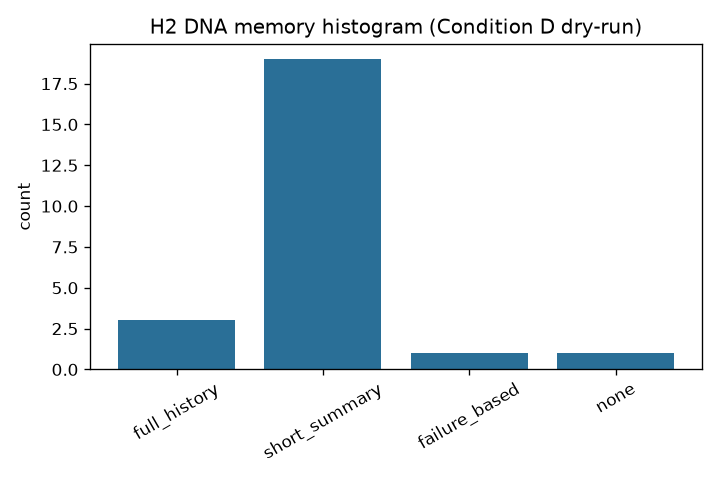
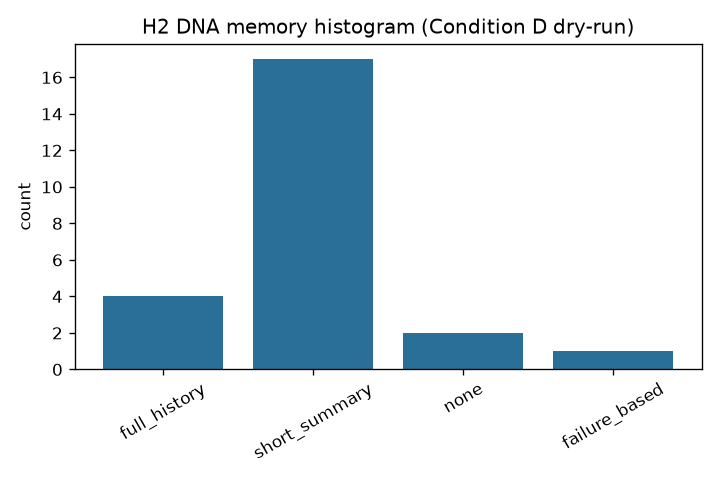
Document Tick 20 directed-explore offline B vs D pilot.
Refresh ICML progress/ready/gate3/paper artifacts after directed
ε-explore unlocked seed 22: offline gens30 4/5, final 5/5, H5 5/5,
mean gap ~6.15pp (runs 1780–1784 / 1790–1794). STATUS remains
IN_PROGRESS pending live GPQA.

diff --git a/docs/paper_artifacts.md b/docs/paper_artifacts.md
@@ -1,10 +1,10 @@
 # ICML paper artifacts
 
-**Status:** offline mechanism pack + synthetic B vs D pilot refreshed (2026-08-05 Tick 19, H5 forward-horizon Δfitness). No publishable **live** GPQA figures/tables yet.
+**Status:** offline mechanism pack + synthetic B vs D pilot refreshed (2026-08-05 Tick 20, directed ε-explore). No publishable **live** GPQA figures/tables yet.
 
 ## Abstract (draft — do not claim READY)
 
-We study whether a Contradiction-Aware Belief System (CABS) improves sample efficiency of population-based Darwinian self-improvement. Fitness-only evolution (Condition B) is compared to epistemic-full steering (Condition D: beliefs → contradictions → research questions → fitness-weighted biased mutation / bias-aware crossover / scoped feedback). Offline dry-run pilots with additive latent DNA fitness show a concrete case study (contradiction → preferred DNA → population skew → fitness lift). Delaying all Condition D DNA steering until breeding from gen≥2 prevents early preferred-allele collapse. Compressing the latent fitness ceiling to 0.34 (Tick 16) removes gen-1 threshold saturation. Tick 17 adds ε-greedy exploration outside frozen contradiction pairs plus latest-generation DNA harvest into the bias pool, unlocking offline gens-to-30% wins on **3/5** seeds (final **5/5**, mean gap ~**5.35pp**). Tick 18–19 score H5 only after steering is active (gen≥2) against population-mean forward Δfitness over a 2-gen horizon (ε-greedy discover→adopt lag) → offline H5 ρ>0.3 on **5/5** seeds. **Live multi-seed GPQA subset results are pending.** Mechanism claim requires measurable DNA trait skew under contradiction bias (H2) and predictive validity of epistemic value for next-step fitness gain (H5) on live runs.
+We study whether a Contradiction-Aware Belief System (CABS) improves sample efficiency of population-based Darwinian self-improvement. Fitness-only evolution (Condition B) is compared to epistemic-full steering (Condition D: beliefs → contradictions → research questions → fitness-weighted biased mutation / bias-aware crossover / scoped feedback). Offline dry-run pilots with additive latent DNA fitness show a concrete case study (contradiction → preferred DNA → population skew → fitness lift). Delaying all Condition D DNA steering until breeding from gen≥2 prevents early preferred-allele collapse. Compressing the latent fitness ceiling to 0.34 (Tick 16) removes gen-1 threshold saturation. Tick 17 adds ε-greedy exploration plus latest-generation DNA harvest into the bias pool; Tick 20 makes explore **directed** (sample only alleles outside the disputed pool) so suboptimal frozen pairs (e.g. minimal vs aggressive) discover better outsiders (`selective`) — offline gens-to-30% wins on **4/5** seeds (final **5/5**, mean gap ~**6.15pp**). Tick 18–19 score H5 only after steering is active (gen≥2) against population-mean forward Δfitness over a 2-gen horizon → offline H5 ρ>0.3 on **5/5** seeds. **Live multi-seed GPQA subset results are pending.** Mechanism claim requires measurable DNA trait skew under contradiction bias (H2) and predictive validity of epistemic value for next-step fitness gain (H5) on live runs.
 
 
 ## Reproducible run IDs
@@ -17,8 +17,9 @@ We study whether a Contradiction-Aware Belief System (CABS) improves sample effi
 | B / D (Tick 8–16 mid pilots) | 11–55 | 1410–1664 | Superseded — see prior ICML_PROGRESS ticks |
 | B / D (Tick 17 ε-greedy pilot) | 11–55 | 1670–1674 / 1680–1684 | First offline gens30 **3/5**; H5 2/5 under old protocol |
 | B / D (Tick 18 H5 protocol) | 11–55 | 1730–1734 / 1740–1744 | H5 **4/5** under gen≥2 + mean Δ; seed 11 ρ=0.0 |
-| B darwinian-only (offline pilot Tick 19) | 11/22/33/44/55 | 1750–1754 | Tick 17 mutation path + Tick 19 H5 horizon (`max_gen=6`); gitignored `runs/` |
-| D epistemic_full (offline pilot Tick 19) | 11/22/33/44/55 | 1760–1764 | Final **5/5**; gens30 **3/5**; H5 **5/5**; case study on `1763` |
+| B / D (Tick 19 H5 horizon) | 11–55 | 1750–1754 / 1760–1764 | H5 **5/5**; gens30 **3/5**; seed 22 still under 30% |
+| B darwinian-only (offline pilot Tick 20) | 11/22/33/44/55 | 1780–1784 | Directed ε-explore (`max_gen=6`); gitignored `runs/` |
+| D epistemic_full (offline pilot Tick 20) | 11/22/33/44/55 | 1790–1794 | Final **5/5**; gens30 **4/5**; H5 **5/5**; case study on `1793` |
 | B darwinian-only | — | — | none yet (live) |
 | D epistemic_full | — | — | none yet (live) |
 
@@ -26,17 +27,17 @@ Reserve unused integer IDs; never overwrite. Next live IDs suggested: B `1201+`,
 
 ## Table 1 — Primary (B vs D)
 
-### Offline synthetic pilot (Tick 19 — not live PRIMARY)
+### Offline synthetic pilot (Tick 20 — not live PRIMARY)
 
 | Seed | B final | D final | B gens@25% | D gens@25% | B gens@30% | D gens@30% | Winner (final>1pp / gens30) |
 |------|---------|---------|------------|------------|------------|------------|------------------------------|
-| 11 | 0.2652 | 0.3010 | 1 | 1 | — | 4 | D / D |
-| 22 | 0.2258 | 0.2733 | 1 | 1 | — | — | D / tie |
+| 11 | 0.2652 | 0.3035 | 1 | 1 | — | 4 | D / D |
+| 22 | 0.2258 | 0.3060 | 1 | 1 | — | 5 | D / D |
 | 33 | 0.2950 | 0.3235 | 1 | 1 | — | 3 | D / D |
 | 44 | 0.2220 | 0.3109 | 1 | 1 | 2 | 2 | D / tie |
-| 55 | 0.2550 | 0.3216 | 1 | 1 | — | 4 | D / D |
+| 55 | 0.2550 | 0.3266 | 1 | 1 | — | 4 | D / D |
 
-Mean final: B ≈ 0.253, D ≈ 0.306 (gap ~**5.35pp**). D final wins **5/5**; gens30 wins **3/5** (offline PRIMARY-shaped). Source: `docs/offline_bvd_summary.json`.
+Mean final: B ≈ 0.253, D ≈ 0.314 (gap ~**6.15pp**). D final wins **5/5**; gens30 wins **4/5** (offline PRIMARY-shaped). Source: `docs/offline_bvd_summary.json`.
 
 ### Live GPQA
 
@@ -50,18 +51,19 @@ Mean final: B ≈ 0.253, D ≈ 0.306 (gap ~**5.35pp**). D final wins **5/5**; ge
 |--------|-------|-------|
 | H2 trait skew (live API) | — | — |
 | H2 dry-run scoped bias (G1) | memory∈{failure_based,none}; tool_strategy∈{aggressive,minimal}; ≠ full enums | yes (dry-run) |
-| H2 offline pilot D (Tick 19) | ε-greedy + live harvest; case-study gen2 preferred share **0.25** (`run_1763`) | informative (dry-run) |
-| H2 unit skew test | pass (+ preferred anchoring + bias-aware / delayed XO + tempered early mutate + delay-all + ε-greedy) | yes (unit) |
+| H2 offline pilot D (Tick 20) | directed ε-explore + live harvest; case-study gen2 preferred share **0.25** (`run_1793`) | informative (dry-run) |
+| H2 unit skew test | pass (+ preferred anchoring + bias-aware / delayed XO + tempered early mutate + delay-all + ε-greedy + directed explore) | yes (unit) |
 | Fitness-weighted bias order | higher-fitness side first; exponential rank weights | yes (unit) |
 | Singleton bias skip | `load_mutation_bias` requires ≥2 distinct candidates | yes (unit, Tick 10) |
 | Bias-aware crossover | soft p=0.85 preferred inherit; delayed until breeding from gen≥2 | yes (unit, Tick 11–12) |
 | Tempered early mutation | soft rank-weighted mutate option retained (`anchor_preferred`) | yes (unit, Tick 13) |
 | Delay-all mutation bias | fair mutate gen1→gen2; full bias+anchor from gen≥2 (`apply_mutation_bias`) | yes (unit, Tick 14) |
 | Compressed latent fitness | output scale `[0.02, 0.34]` (Tick 16) | yes (unit) |
-| ε-greedy + live bias harvest | explore outside disputed pool; adopt better latest-gen alleles (Tick 17) | yes (unit) |
+| ε-greedy + live bias harvest | explore + adopt better latest-gen alleles (Tick 17) | yes (unit) |
+| Directed ε-explore | explore samples only outsiders of disputed pool (Tick 20) | yes (unit + offline) |
 | H5 protocol | `min_generation=2`, `fitness_key=mean`, `delta_horizon=2` (Tick 18–19) | yes (unit + offline) |
-| Case study chain | `docs/case_study_offline.md` (`run_1763`) | yes (offline) |
-| H5 Spearman ρ | offline D `1760–1764`: **5/5** ρ>0.3 (0.8 / 0.8 / 0.8 / 1.0 / 0.6); live pending | offline pass; live need > 0.3 |
+| Case study chain | `docs/case_study_offline.md` (`run_1793`) | yes (offline) |
+| H5 Spearman ρ | offline D `1790–1794`: **5/5** ρ>0.3 (0.4 / 0.8 / 0.8 / 1.0 / 0.4); live pending | offline pass; live need > 0.3 |
 | Steering opportunity term | `fitness_gap × (1 − preferred share)` in epi | yes (unit + offline) |
 
 ## Figures
@@ -73,7 +75,7 @@ Mean final: B ≈ 0.253, D ≈ 0.306 (gap ~**5.35pp**). D final wins **5/5**; ge
 
 ## Case study (offline)
 
-See `docs/case_study_offline.md`. Summary: gen1 contradiction on `planning_style` (`stepwise` vs `direct`) → fitness-weighted bias prefers `stepwise` → gen2 preferred share **0.25** → fitness lift **+0.0869** vs loser side (`run_1763`, Tick 19).
+See `docs/case_study_offline.md`. Summary: gen1 contradiction on `planning_style` (`stepwise` vs `direct`) → fitness-weighted bias prefers `stepwise` → gen2 preferred share **0.25** → fitness lift **+0.0869** vs loser side (`run_1793`, Tick 20).
 
 ## Limitations (honest, keep updated)
 
@@ -87,12 +89,13 @@ See `docs/case_study_offline.md`. Summary: gen1 contradiction on `planning_style
 - Longer-horizon re-pilot (Tick 15, `max_gen=6`) **does not unlock gens30** — 4/5 seeds hit 30% by gen≤2 for both B and D (threshold saturation).
 - Compressed latent fitness (Tick 16, ceiling 0.34) **fixes gen-1 saturation** and raises gens30 to **2/5**; final 3/5 / mean ~2.26pp / H5 2/5. Gens-to-25% remains saturated.
 - Pre-Tick-17 bias could **trap** populations in suboptimal frozen contradiction pairs (e.g. minimal vs aggressive) by forcing outsiders onto the local winner and never sampling unexplored alleles.
-- ε-greedy + live harvest (Tick 17) unlocks offline gens30 **3/5** / final **5/5** / mean ~**5.35pp**, but single-step H5 stayed soft for seed 11 (delayed peak gain under explore→adopt lag).
-- Tick 18 H5 protocol (gen≥2 + mean Δ) restored offline H5 to **4/5**; Tick 19 forward-horizon (`delta_horizon=2`) recovers seed 11 → offline H5 **5/5**. Still **not publishable** without live GPQA.
+- ε-greedy + live harvest (Tick 17) unlocks offline gens30 **3/5** / final **5/5** / mean ~**5.35pp**, but uniform explore still wasted budget re-drawing pool alleles (seed 22 never found `selective`).
+- Tick 18 H5 protocol (gen≥2 + mean Δ) restored offline H5 to **4/5**; Tick 19 forward-horizon (`delta_horizon=2`) recovers seed 11 → offline H5 **5/5**.
+- Tick 20 directed explore unlocks seed 22 → offline gens30 **4/5** / mean ~**6.15pp** / H5 **5/5**. Still **not publishable** without live GPQA.
 - Scoped feedback now mirrors mutation-bias DNA candidates (2026-08-04); still untested on live rewrite quality.
 - `--cabs-inline` + G1 dry-run PASS (2026-08-04); G2–G4 **live** B vs D evidence still missing.
-- Tick 8 opaque DNA-hash fitness made offline D final 4/5 look strong but was **non-causal**; Tick 9–19 additive latent fitness is honest — offline gens30 **3/5** / H5 **5/5** but still **not publishable** without live GPQA (no API keys).
-- No cloud API keys in this environment as of 2026-08-05 — no new paid evidence this tick; secrets requested for G2.
+- Tick 8 opaque DNA-hash fitness made offline D final 4/5 look strong but was **non-causal**; Tick 9–20 additive latent fitness is honest — offline gens30 **4/5** / H5 **5/5** but still **not publishable** without live GPQA (no API keys).
+- No cloud API keys in this environment as of 2026-08-05 — no new paid evidence this tick; secrets re-requested for G2.
 - Expect Condition D token cost ≥ B if CABS/committee calls are counted; primary win may be gens-to-threshold or cost-to-threshold, not raw final accuracy.
 - Small eval subsets and seed counts limit statistical power; avoid overclaiming.
 
@@ -105,6 +108,7 @@ See `docs/case_study_offline.md`. Summary: gen1 contradiction on `planning_style
 | Fitness-weighted bias order | `load_mutation_bias` + exponential rank-weighted `_biased_choice` |
 | Preferred-allele anchoring | `SIA/sia/evolution/operators.py::_biased_choice` (Tick 10; Tick 17 preserves outsiders) |
 | ε-greedy mutation explore | `_BIAS_MUTATE_EXPLORE_EPS` in `_biased_choice` (Tick 17) |
+| Directed ε-explore | explore samples only outsiders of disputed pool (Tick 20) |
 | Live population bias harvest | `cabs_bridge._values_from_latest_population` (Tick 17) |
 | Tempered early mutation | `anchor_preferred` / `apply_mutation_anchor` (Tick 13; now gated with delay-all) |
 | Delay-all mutation bias | `breed_offspring(..., apply_mutation_bias=)` + `population.py` gen≥2 gate (Tick 14) |
@@ -118,7 +122,3 @@ See `docs/case_study_offline.md`. Summary: gen1 contradiction on `planning_style
 | Dry-run DNA fitness | `SIA/sia/evolution/dry_run.py::deterministic_fitness` (additive latent; Tick 16 scale `[0.02, 0.34]`) |
 | Metrics / H5–H2 helpers | `scripts/epistemic_results.py` (gens-to-30% wins) |
 | Offline B vs D + case study | `scripts/offline_bvd_case_study.py` |
-| H2 unit test | `SIA/tests/test_cabs_bridge.py` |
-| Inline unit test | `SIA/tests/test_cabs_inline.py` |
-| G1 dry-run Condition D | `SIA/tests/test_cabs_inline_dry_run.py` |
-| Epistemic metrics tests | `SIA/tests/test_epistemic_results.py` |

diff --git a/docs/HACKATHON_MASTER_PLAN.md b/docs/HACKATHON_MASTER_PLAN.md
@@ -2,7 +2,7 @@
 
 > **READ THIS FIRST.** Any agent working on this repo must read this entire document before planning, coding, or running expensive commands. Do not re-plan from scratch. Implement in phase order with gates.
 
-**Last updated:** 2026-08-05 (Section 21 ICML; Tick 19 H5 forward-horizon; offline H5 5/5 + gens30 3/5)  
+**Last updated:** 2026-08-05 (Section 21 ICML; Tick 20 directed ε-explore; offline gens30 4/5 + H5 5/5)  
 **Project:** SIA-CABS (Contradiction-Aware Belief System) — **Layer 1 of unified self-improvement stack**  
 **Workspace:** `c:\Users\MSPSA\Documents\SIA2`  
 **Sibling repo:** Darwinian AI Civilization → `c:\Users\MSPSA\Documents\SIA` (build in parallel; merge later)  
@@ -809,7 +809,8 @@ Computed in `cabs/belief_engine.py`:
 | Delay-all mutation bias (gen≥2) | **DONE** | Tick 14: fair mutate+XO gen1→gen2; full CABS steering from gen≥2 (`apply_mutation_bias`); final 4/5; mean ~3.34pp; gens30 still 0/5 |
 | Longer-horizon offline B vs D (`max_gen=6`) | **DONE** | Tick 15: `1630–1634` / `1640–1644`; final 3/5; mean ~2.55pp; H5 2/5; gens30 still 0/5 (early threshold saturation) |
 | Compressed latent fitness scale | **DONE** | Tick 16: map additive latent into `[0.02, 0.34]`; gen-1 ≥30% fixed; gens30 **2/5** |
-| ε-greedy + live bias harvest | **DONE** | Tick 17: explore outside disputed pool; adopt better latest-gen alleles; offline gens30 **3/5** |
+| ε-greedy + live bias harvest | **DONE** | Tick 17: explore + adopt better latest-gen alleles; offline gens30 **3/5** |
+| Directed ε-explore (outsiders only) | **DONE** | Tick 20: explore samples only alleles outside disputed pool; gens30 **4/5**; mean ~6.15pp |
 | H5 steered-window + mean Δfitness | **DONE** | Tick 18: `min_generation=2`, `fitness_key=mean` |
 | H5 forward-horizon Δfitness | **DONE** | Tick 19: `delta_horizon=2`; offline H5 **5/5** (ε-lag) |
 | CABS scoped feedback DNA targets | **DONE** | Agenda injects same contradiction-scoped candidates as bias (2026-08-04) |
@@ -818,11 +819,11 @@ Computed in `cabs/belief_engine.py`:
 | Dry-run DNA-deterministic fitness | **DONE** | Tick 9 additive latent; **Tick 16** ceiling 0.34 (was 0.38) so gens-to-30% stay discriminative |
 | Steering opportunity in epistemic_value | **DONE** | Tick 9: `fitness_gap × (1 − preferred share)` term in `cabs_inline._epistemic_value` |
 | `scripts/epistemic_results.py` | **DONE** | H5/H2/PRIMARY helpers; gens-to-30% win counting; Tick 18–19 H5 protocol |
-| Offline B vs D case-study pilot | **DONE** | Latest Tick 19 `1750–1754` / `1760–1764` (`max_gen=6`); case study `docs/case_study_offline.md` (`run_1763`); final **5/5**; gens30 **3/5**; H5 **5/5**; mean gap ~5.35pp |
-| ICML B vs D multi-seed GPQA | **NOT DONE** | Blocked: no API keys in cloud env; secrets requested; budget check required |
+| Offline B vs D case-study pilot | **DONE** | Latest Tick 20 `1780–1784` / `1790–1794` (`max_gen=6`); case study `docs/case_study_offline.md` (`run_1793`); final **5/5**; gens30 **4/5**; H5 **5/5**; mean gap ~6.15pp |
+| ICML B vs D multi-seed GPQA | **NOT DONE** | Blocked: no API keys in cloud env; secrets re-requested; budget check required |
 | H2 DNA trait skew evidence | **PARTIAL** | Unit + dry-run + offline case study; need live API |
 | Non-constant epistemic_value (H5) | **DONE (offline)** | Age-decay + flow + steering opportunity (`cabs_inline.py`) |
-| H5 Spearman ρ validity | **PARTIAL** | Offline Tick 19 **5/5** ρ>0.3 (`1760–1764`, mean forward Δ, gen≥2, horizon=2); live required |
+| H5 Spearman ρ validity | **PARTIAL** | Offline Tick 20 **5/5** ρ>0.3 (`1790–1794`, mean forward Δ, gen≥2, horizon=2); live required |
 | Paper artifacts (Figs 1–2, Tables 1–2) | **PARTIAL** | Offline figs + Table 1 stub; live empty — see `docs/paper_artifacts.md` |
 | `docs/ICML_READY.md` | **IN_PROGRESS** | STATUS not READY until criteria 1–4 pass (live PRIMARY) |
 
@@ -1613,4 +1614,6 @@ sia run --task gpqa --darwinian --population_size 4 --elite_count 2 \
 
 **H5 steered-window + mean Δfitness (2026-08-05 Tick 18):** Under delay-all, gen1→gen2 breeding is intentionally fair, so gen1 epistemic stock must not be scored against that Δfitness. `compute_h5` now defaults to `min_generation=2` and population-mean Δfitness (steering reshapes the population, not only the elite). Offline re-pilot `1730–1734` / `1740–1744` (Tick 17 mutation path) → gens30 **3/5**, final **5/5**, mean ~**5.35pp**, H5 **4/5** ρ>0.3 (0.0 / 0.8 / 0.4 / 0.8 / 0.6).
 
-**H5 forward-horizon Δfitness (2026-08-05 Tick 19):** ε-greedy discover→adopt can lag one generation, zeroing single-step Spearman ρ (seed 11). `compute_h5` defaults to `delta_horizon=2` so Y is mean fitness over the next 1–2 gens minus fitness_t. Offline re-pilot `1750–1754` / `1760–1764` → gens30 **3/5**, final **5/5**, mean ~**5.35pp**, H5 **5/5** ρ>0.3 (0.8 / 0.8 / 0.8 / 1.0 / 0.6). Remaining gap: API-backed G2–G4 live B vs D (keys absent in cloud env; secrets requested).
+**H5 forward-horizon Δfitness (2026-08-05 Tick 19):** ε-greedy discover→adopt can lag one generation, zeroing single-step Spearman ρ (seed 11). `compute_h5` defaults to `delta_horizon=2` so Y is mean fitness over the next 1–2 gens minus fitness_t. Offline re-pilot `1750–1754` / `1760–1764` → gens30 **3/5**, final **5/5**, mean ~**5.35pp**, H5 **5/5** ρ>0.3 (0.8 / 0.8 / 0.8 / 1.0 / 0.6).
+
+**Directed ε-explore (2026-08-05 Tick 20):** Uniform ε-sampling over the full trait enum often re-drew disputed-pool alleles, so seed 22 never discovered `selective` and stalled under 30%. `_biased_choice` now samples only alleles **outside** the contradiction-scoped pool on explore steps. Offline re-pilot `1780–1784` / `1790–1794` → gens30 **4/5**, final **5/5**, mean ~**6.15pp**, H5 **5/5** ρ>0.3 (0.4 / 0.8 / 0.8 / 1.0 / 0.4). Remaining gap: API-backed G2–G4 live B vs D (keys absent in cloud env; secrets re-requested).

diff --git a/docs/ICML_READY.md b/docs/ICML_READY.md
@@ -10,7 +10,7 @@ Do not set STATUS: READY until every item below is checked and evidence paths ar
 - [ ] D beats B on ≥3/5 seeds for gens-to-threshold (25% or 30%), **or**
 - [ ] D beats B on ≥3/5 seeds for cost-to-threshold (≥15% fewer tokens/calls), **or**
 - [ ] Non-trivial mean final accuracy gap (not ~1pp noise)
-- Evidence: offline synthetic pilot `1750–1754` vs `1760–1764` (Tick 19; Tick 17 ε-greedy path + Tick 18/19 H5 protocol) — D gens30 wins **3/5** (B: 0), D final wins **5/5**, mean final gap ~**5.35pp**. Offline PRIMARY-shaped signal only — **not** live GPQA; leave unchecked for READY. Live → `docs/paper_artifacts.md` Table 1
+- Evidence: offline synthetic pilot `1780–1784` vs `1790–1794` (Tick 20; directed ε-explore) — D gens30 wins **4/5** (B: 0), D final wins **5/5**, mean final gap ~**6.15pp**. Offline PRIMARY-shaped signal only — **not** live GPQA; leave unchecked for READY. Live → `docs/paper_artifacts.md` Table 1
 
 ### 2. MECHANISM — H2 or case study
 - [x] Unit-level H2: contradiction bias skews DNA vs uniform (`SIA/tests/test_cabs_bridge.py`)
@@ -23,15 +23,16 @@ Do not set STATUS: READY until every item below is checked and evidence paths ar
 - [x] Tempered early mutation bias (Tick 13) — soft rank-weighted mutate gen1→gen2; full preferred anchoring from gen≥2 (`apply_mutation_anchor`, `test_biased_mutate_can_soften_preferred_anchor`)
 - [x] Delayed **all** mutation bias (Tick 14) — fair mutate+XO gen1→gen2; full CABS steering from gen≥2 (`apply_mutation_bias`, `test_breed_offspring_can_delay_all_mutation_bias`)
 - [x] Compressed latent fitness scale (Tick 16) — `[0.02, 0.34]` keeps gen-1 under 30% (`test_deterministic_fitness_scale_keeps_mid_dna_under_threshold`)
-- [x] ε-greedy mutation + live population bias harvest (Tick 17) — escape suboptimal frozen contradiction pairs (`test_biased_mutate_epsilon_explores_outside_disputed_pool`, `test_mutation_bias_adopts_better_allele_from_latest_population`)
+- [x] ε-greedy mutation + live population bias harvest (Tick 17) — escape suboptimal frozen contradiction pairs
+- [x] Directed ε-explore outside disputed pools (Tick 20) — explore samples only outsiders (`test_biased_mutate_directed_explore_never_redraws_pool`)
 - [x] H5 protocol (Tick 18–19) — steered-window (`min_generation=2`) + population-mean forward Δfitness (`delta_horizon=2`; `scripts/epistemic_results.py`)
-- [x] Documented case study (tie → contradiction → different DNA → fitness lift) with artifacts — offline dry-run `docs/case_study_offline.md` + `run_1763` (`stepwise` preferred → gen2 share **0.25**; lift +0.0869)
+- [x] Documented case study (tie → contradiction → different DNA → fitness lift) with artifacts — offline dry-run `docs/case_study_offline.md` + `run_1793` (`stepwise` preferred → gen2 share **0.25**; lift +0.0869)
 - [ ] Live API-run H2 DNA trait skew under contradiction bias
-- Evidence: unit + dry-run G1 + scoped feedback + fitness-weighted order + preferred anchoring + bias-aware/delayed XO + tempered early mutation + delay-all mutation bias + compressed fitness scale + ε-greedy/live harvest + H5 protocol + offline case study; live GPQA still pending (no API keys)
+- Evidence: unit + dry-run G1 + scoped feedback + fitness-weighted order + preferred anchoring + bias-aware/delayed XO + tempered early mutation + delay-all mutation bias + compressed fitness scale + ε-greedy/live harvest + directed explore + H5 protocol + offline case study; live GPQA still pending (no API keys)
 
 ### 3. VALIDITY — H5
 - [ ] Spearman ρ (`epistemic_value_t` vs `Δfitness_t+1`) > 0.3 on live / publishable runs
-- Evidence: offline multi-seed Condition D `1760–1764` (`max_gen=6`) → ρ>0.3 on **5/5** seeds (0.8 / 0.8 / 0.8 / 1.0 / 0.6) using population-mean forward Δfitness (`delta_horizon=2`) and gen≥2 pairs (delay-all steered window + ε-lag). Still **not** live GPQA.
+- Evidence: offline multi-seed Condition D `1790–1794` (`max_gen=6`) → ρ>0.3 on **5/5** seeds (0.4 / 0.8 / 0.8 / 1.0 / 0.4) using population-mean forward Δfitness (`delta_horizon=2`) and gen≥2 pairs. Still **not** live GPQA.
 
 ### 4. PAPER
 - [x] Figure 1 draft (offline B vs D learning curves) — `docs/figures/fig1_learning_curves.png`
@@ -47,9 +48,9 @@ Do not set STATUS: READY until every item below is checked and evidence paths ar
 
 | Gate | Status |
 |------|--------|
-| G0 mechanism unit tests | **PASS** (2026-08-03; + delay-all Tick 14; + compressed fitness Tick 16; + ε-greedy/live harvest Tick 17; + H5 protocol Tick 18–19) |
+| G0 mechanism unit tests | **PASS** (2026-08-03; + delay-all Tick 14; + compressed fitness Tick 16; + ε-greedy/live harvest Tick 17; + H5 protocol Tick 18–19; + directed explore Tick 20) |
 | G1 dry-run Condition D | **PASS** (2026-08-04) — `run_1401` + `test_cabs_inline_dry_run.py` |
-| G2 smoke GPQA subset | BLOCKED (no API keys; secrets requested 2026-08-05) |
-| G3 pilot B vs D | Offline synthetic pilot refreshed (Tick 19; gens30 **3/5**; H5 **5/5**); **live** G3 NOT STARTED |
+| G2 smoke GPQA subset | BLOCKED (no API keys; secrets re-requested 2026-08-05 Tick 20) |
+| G3 pilot B vs D | Offline synthetic pilot refreshed (Tick 20; gens30 **4/5**; H5 **5/5**); **live** G3 NOT STARTED |
 | G4 5-seed + metrics | NOT STARTED (live) |
-| G5 paper pack | PARTIAL (offline figs + case study + offline PRIMARY gens30 + offline H5 5/5); live pack NOT STARTED |
+| G5 paper pack | PARTIAL (offline figs + case study + offline PRIMARY gens30 4/5 + offline H5 5/5); live pack NOT STARTED |

diff --git a/docs/gate3_report.md b/docs/gate3_report.md
@@ -1,41 +1,41 @@
 # Gate 3 report — Pilot B vs D
 
-**Status:** Offline synthetic pilot **refreshed** (2026-08-05 Tick 19, H5 forward-horizon Δfitness); **live** G3 still blocked on API keys
+**Status:** Offline synthetic pilot **refreshed** (2026-08-05 Tick 20, directed ε-explore); **live** G3 still blocked on API keys
 
 Gate 3 (Section 21.5): pilot Condition B vs D on 1–2 seeds, `--eval_subset 15`, `max_gen ≤ 5`, before full 5-seed spend.
 
-## Offline synthetic pilot (Tick 19 — not a live G3 substitute)
+## Offline synthetic pilot (Tick 20 — not a live G3 substitute)
 
 | Cond | Seeds | Pop | Elite | max_gen | eval_subset | Run IDs |
 |------|-------|-----|-------|---------|-------------|---------|
-| B | 11,22,33,44,55 | 4 | 2 | 6 | 3 | `1750–1754` |
-| D | 11,22,33,44,55 | 4 | 2 | 6 | 3 | `1760–1764` |
+| B | 11,22,33,44,55 | 4 | 2 | 6 | 3 | `1780–1784` |
+| D | 11,22,33,44,55 | 4 | 2 | 6 | 3 | `1790–1794` |
 
-Harness: `scripts/offline_bvd_case_study.py` (compressed additive latent dry-run fitness [0.02, 0.34] + delay-all mutation bias until gen≥2 + ε-greedy explore + latest-gen bias harvest + delayed soft bias-aware crossover). H5 via `scripts/epistemic_results.compute_h5(min_generation=2, fitness_key="mean", delta_horizon=2)`.
+Harness: `scripts/offline_bvd_case_study.py` (compressed additive latent dry-run fitness [0.02, 0.34] + delay-all mutation bias until gen≥2 + directed ε-explore outside disputed pools + latest-gen bias harvest + delayed soft bias-aware crossover). H5 via `scripts/epistemic_results.compute_h5(min_generation=2, fitness_key="mean", delta_horizon=2)`.
 
 | Metric | Result |
 |--------|--------|
 | D final-fitness wins (>1pp) | **5/5** |
 | B final-fitness wins (>1pp) | **0/5** |
-| Mean final (B / D) | ~0.253 / ~0.306 (~**5.35pp**) |
-| D gens-to-30% wins | **3/5** (B: 0) — offline PRIMARY gens30 pass |
+| Mean final (B / D) | ~0.253 / ~0.314 (~**6.15pp**) |
+| D gens-to-30% wins | **4/5** (B: 0) — offline PRIMARY gens30; seed 22 unlocked |
 | Gens-to-25% | Both hit gen1 (still saturated at 25%) |
 | Gen-1 ≥30% | **0/5** seeds (saturation still fixed) |
-| H5 ρ>0.3 (D seeds) | **5/5** (0.8 / 0.8 / 0.8 / 1.0 / 0.6) — mean forward Δ; gen≥2; horizon=2 |
-| Case study | `docs/case_study_offline.md` (`run_1763`) — gen2 preferred share **0.25**; lift +0.0869 |
+| H5 ρ>0.3 (D seeds) | **5/5** (0.4 / 0.8 / 0.8 / 1.0 / 0.4) — mean forward Δ; gen≥2; horizon=2 |
+| Case study | `docs/case_study_offline.md` (`run_1793`) — gen2 preferred share **0.25**; lift +0.0869 |
 | Figures | `docs/figures/fig1_learning_curves.png`, `fig2_mechanism.png` |
 | Summary JSON | `docs/offline_bvd_summary.json` |
 
-**Finding:** Tick 18 recovered H5 to **4/5** but seed 11 single-step ρ stayed 0.0 (ε-greedy discover→adopt lag: peak mean gain one gen after highest epi). Tick 19 keeps the Tick 17 mutation path and scores H5 against a 2-gen forward mean Δfitness → H5 **5/5** while gens30/final stay at **3/5** / **5/5**.
+**Finding:** Tick 19 left seed 22 under 30% because uniform ε-sampling often re-drew `minimal`/`aggressive`. Tick 20 directs explore to alleles **outside** the disputed pool → seed 22 discovers `selective` (gen4), crosses 30% (gen5), and offline gens30 rises to **4/5** while H5 stays **5/5** and mean gap ~**6.15pp**.
 
-Prior Tick-18 pilot `1730–1734` / `1740–1744` remains the first steered-window H5 **4/5** snapshot. Tick-17 `1670–1674` / `1680–1684` remains the first offline gens30 PRIMARY-shaped snapshot. Tick-8 hash-fitness “D final 4/5” remains **withdrawn** (non-causal).
+Prior Tick-19 pilot `1750–1754` / `1760–1764` remains the first offline H5 **5/5** snapshot. Tick-17 `1670–1674` / `1680–1684` remains the first offline gens30 PRIMARY-shaped snapshot. Tick-8 hash-fitness “D final 4/5” remains **withdrawn** (non-causal).
 
 ## Blockers (live G3)
 
-1. No `ANTHROPIC_API_KEY` / `NEBIUS_API_KEY` in this cloud environment (verified empty; secrets requested 2026-08-05).
+1. No `ANTHROPIC_API_KEY` / `NEBIUS_API_KEY` in this cloud environment (verified empty; secrets re-requested 2026-08-05 Tick 20).
 2. Bundled GPQA `data/public` not present in checkout — G2/G3 need dataset + keys (offline pilot used synthetic fixture).
 3. ~~G1 dry-run~~ **PASS** 2026-08-04 (`runs/run_1401` dry-run; `SIA/tests/test_cabs_inline_dry_run.py`).
-4. Offline pilot validates harness + case study + offline gens30 **3/5** + offline H5 **5/5** — **not** live PRIMARY.
+4. Offline pilot validates harness + case study + offline gens30 **4/5** + offline H5 **5/5** — **not** live PRIMARY.
 
 ## Prerequisites completed
 
@@ -58,6 +58,7 @@ Prior Tick-18 pilot `1730–1734` / `1740–1744` remains the first steered-wind
 - [x] ε-greedy mutation + live bias harvest (Tick 17) — gens30 **3/5**; final **5/5**; mean ~5.35pp
 - [x] H5 steered-window + mean Δfitness (Tick 18) — H5 **4/5**; gens30/final held
 - [x] H5 forward-horizon Δfitness (Tick 19) — H5 **5/5** (`delta_horizon=2`); gens30/final held
+- [x] Directed ε-explore outside disputed pools (Tick 20) — gens30 **4/5**; mean ~6.15pp; H5 **5/5**
 - [ ] G2: smoke GPQA subset (live)
 
 ## Live pilot plan (when unblocked)

diff --git a/docs/ICML_PROGRESS.md b/docs/ICML_PROGRESS.md
@@ -4,6 +4,39 @@ Persistent agent ticks append newest entries at the top.
 
 ---
 
+## 2026-08-05T12:10Z — Tick 20 (automation cron)
+
+### Status snapshot
+- `docs/ICML_READY.md`: **STATUS: IN_PROGRESS**
+- Branch: `cursor/icml-epistemic-results-d7f1` (fast-forwarded Ticks 1–19 from `eec8`, then this tick)
+- API keys in cloud env: **absent** (no paid GPQA this tick; secrets re-requested via environment setup)
+- Budget: ~$20 ceiling; spend this tick = $0
+
+### Largest gap diagnosed
+G2–G4 remain blocked without API keys. Offline after Tick 19: gens30 **3/5**, final **5/5**, H5 **5/5**. Seed 22 never crossed 30% — diagnosis: ε-greedy explore sampled the **full** trait enum and often re-drew disputed-pool alleles (`minimal`/`aggressive`), so `selective` never entered; live harvest could not promote it.
+
+### What this tick did (ONE step)
+**Directed ε-explore outside disputed DNA pools:**
+1. `_biased_choice`: on explore steps, sample only alleles **absent** from the contradiction-scoped pool (fallback to full enum if no outsiders)
+2. Unit tests: stronger selective discovery rate + `test_biased_mutate_directed_explore_never_redraws_pool`
+3. Sync `sia-upstream/sia/evolution/operators.py`
+4. Re-pilot B `1780–1784` vs D `1790–1794` (`max_gen=6`); case study on `run_1793`; refreshed figs / paper artifacts / gate3 / READY
+
+### Metrics delta
+| Metric | Before (Tick 19) | After (Tick 20) |
+|--------|------------------|-----------------|
+| Offline D final wins (>1pp) | 5/5 | **5/5** (stable) |
+| Offline D gens30 wins | 3/5 | **4/5** (B: 0) — seed 22 unlocked |
+| Mean final gap (D−B) | ~5.35pp | ~**6.15pp** |
+| Offline H5 ρ>0.3 | 5/5 (0.8 / 0.8 / 0.8 / 1.0 / 0.6) | **5/5** (0.4 / 0.8 / 0.8 / 1.0 / 0.4) |
+| Case study gen2 pref share / lift | 0.25 / +0.0869 (`1763`) | **0.25 / +0.0869** (`1793`) — same chain |
+| Live PRIMARY / G2 | Blocked (no API) | Still blocked (secrets re-requested) |
+
+### Next recommended step
+When `ANTHROPIC_API_KEY` + `NEBIUS_API_KEY` present and budget checked: **G2** smoke GPQA subset (≤5 samples, pop≤2, max_gen≤2, one seed) Condition D with `--cabs --cabs-inline`; then G3 live pilot B vs D. Offline gens30 **4/5** + H5 **5/5** are in place but **do not** set READY without live GPQA.
+
+---
+
 ## 2026-08-05T10:10Z — Tick 19 (automation cron)
 
 ### Status snapshot

diff --git a/docs/case_study_offline.md b/docs/case_study_offline.md
@@ -2,7 +2,7 @@
 
 **Status:** offline dry-run evidence (synthetic GPQA fixture; additive latent DNA fitness). Does **not** satisfy live PRIMARY. Supports MECHANISM case-study criterion.
 
-**Run:** `runs/run_1763`
+**Run:** `runs/run_1793`
 
 ## Chain
 
@@ -21,7 +21,7 @@ DNA fitness transferability check: `True` (same DNA ⇒ same score across agent_
   "n_pairs": 5,
   "d_wins_gens25": 0,
   "b_wins_gens25": 0,
-  "d_wins_gens30": 3,
+  "d_wins_gens30": 4,
   "b_wins_gens30": 0,
   "d_wins_final": 5,
   "b_wins_final": 0,
@@ -34,7 +34,7 @@ DNA fitness transferability check: `True` (same DNA ⇒ same score across agent_
 
 ```json
 {
-  "run_dir": "runs/run_1763",
+  "run_dir": "runs/run_1793",
   "field": "planning_style",
   "preferred_value": "stepwise",
   "bias_order": [
